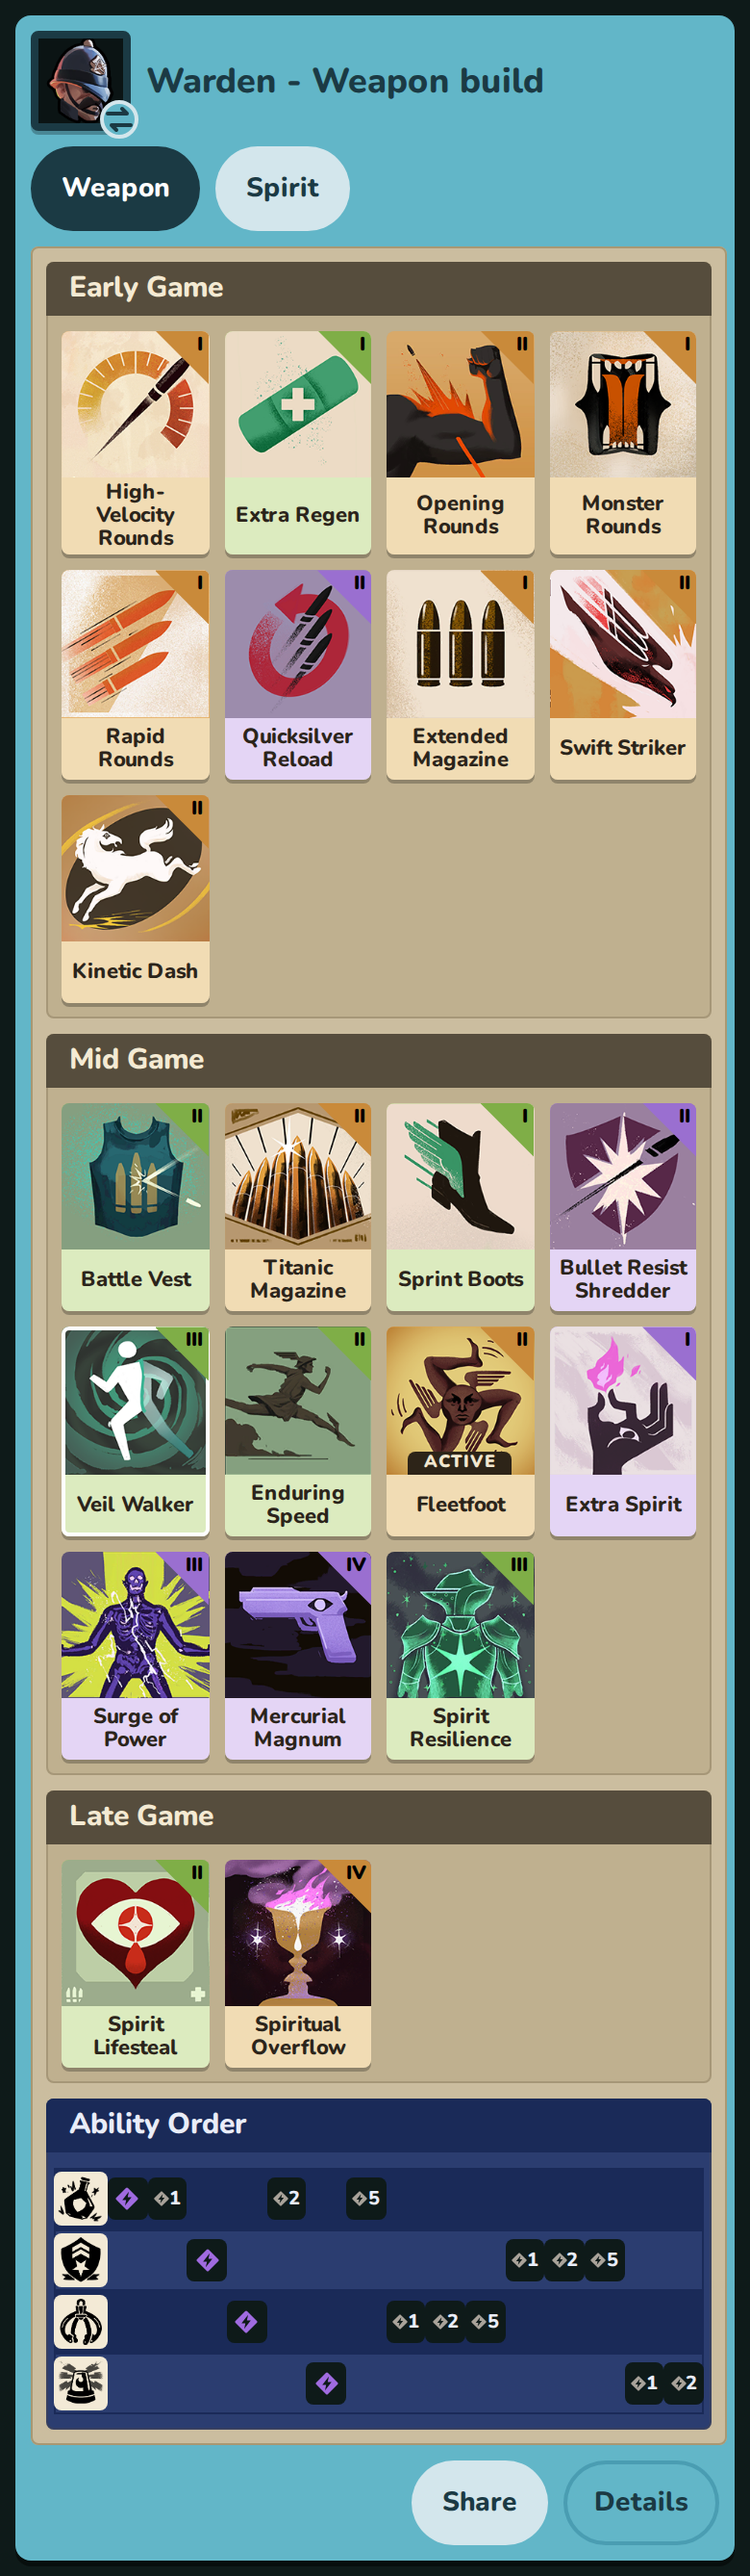
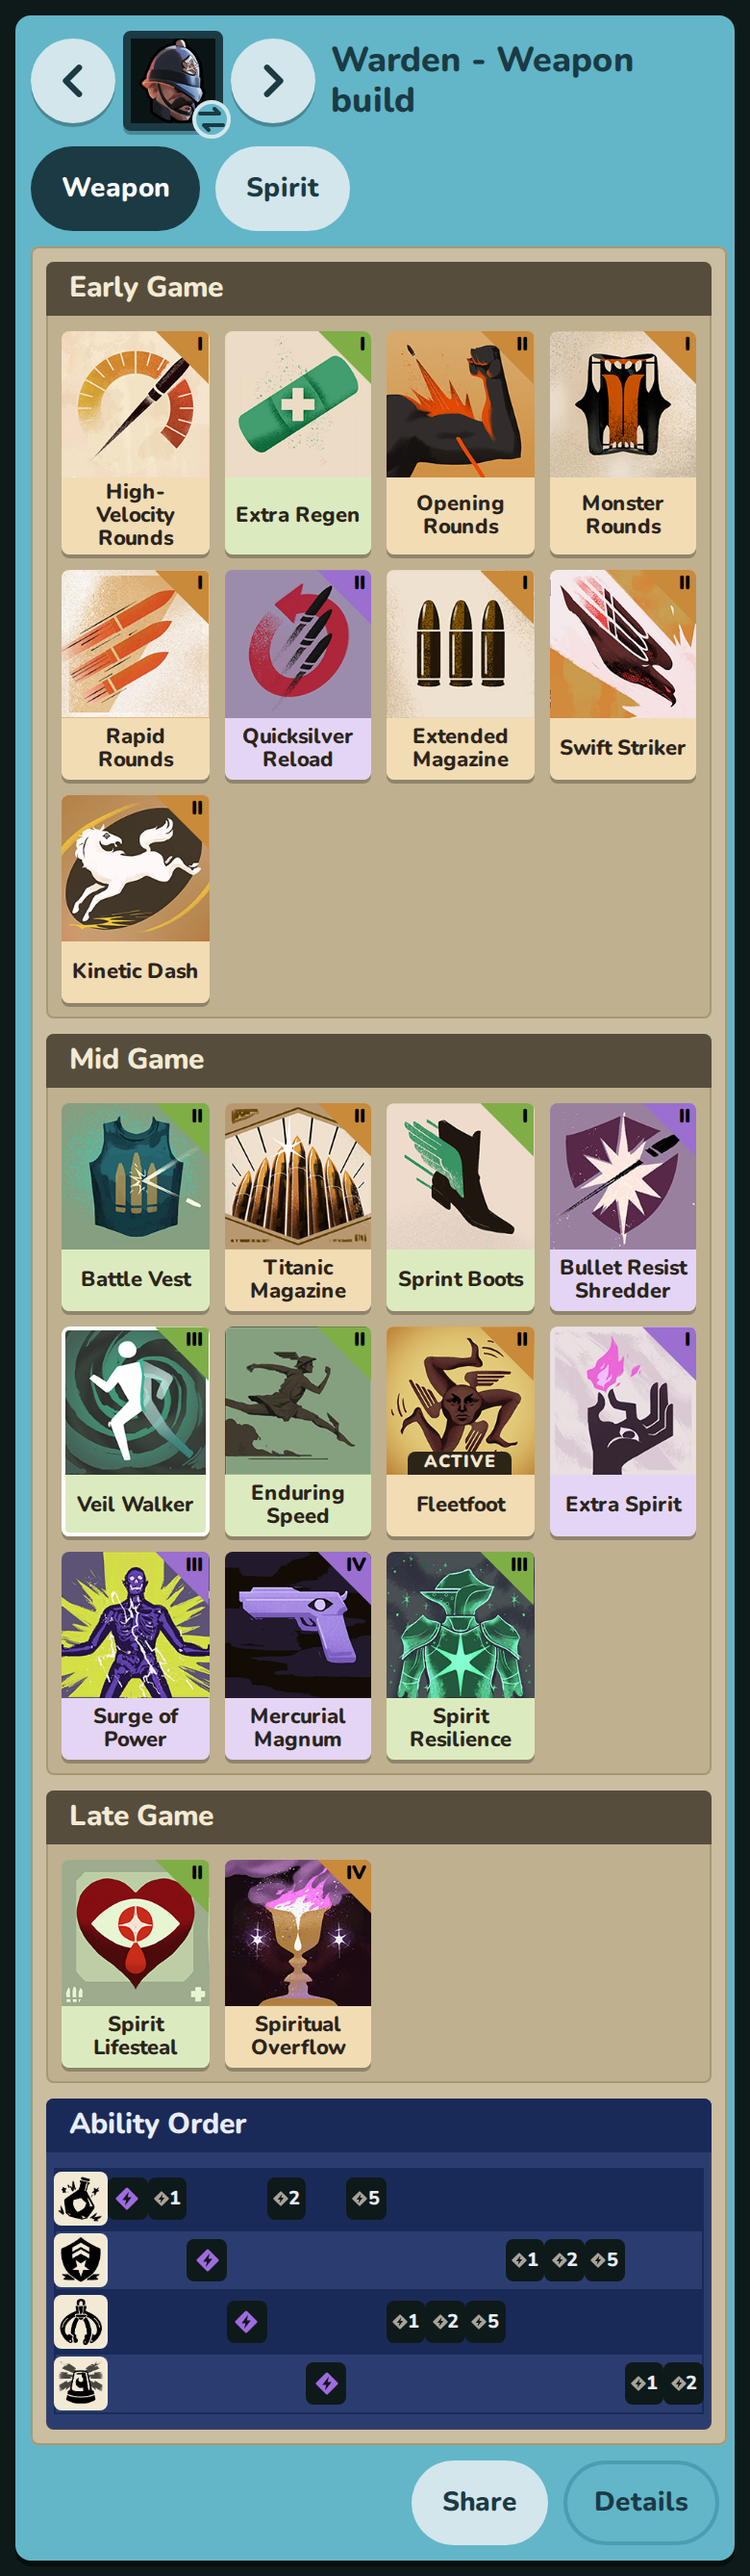
Hero card hugs portrait; prev/next hero arrows; parallelise per-hero browser checks (~99s to ~64s); poll focus restore
Claude-Session: https://claude.ai/code/session_01Pw5t86tpJKbw1BESHRLQ93

Changed region(s): [[0.0308, 0.0, 0.8308, 0.062]]

diff --git a/src/index.css b/src/index.css
@@ -436,6 +436,32 @@ h3 {
   display: none;
 }
 
+/* prev / next hero arrows */
+.hero-mini {
+  display: flex;
+  align-items: center;
+  gap: 4px;
+  flex: 0 0 auto;
+}
+.hero-arrow {
+  display: inline-flex;
+  align-items: center;
+  justify-content: center;
+  width: 44px;
+  height: 44px;
+  border-radius: var(--radius-full);
+  background: var(--pill);
+  color: var(--teal-ink);
+  box-shadow: var(--shadow-hard);
+}
+.hero-arrow svg {
+  width: 20px;
+  height: 20px;
+}
+.hero-side .hero-arrow {
+  display: none;
+}
+
 /* item tile: slot-coloured art, tier flag in the corner, pale name plate */
 .tile {
   position: relative;
@@ -785,9 +811,10 @@ button.tile:hover {
 
 @media (min-width: 900px) {
   .screen {
-    --tile: clamp(72px, min(5.5vw, 9.2vh), 112px);
+    --tile: clamp(64px, min(4.9vw, 9.2vh), 112px);
     display: grid;
-    grid-template-columns: clamp(220px, 20vw, 400px) minmax(0, 1fr);
+    --side-w: clamp(220px, min(27vw, calc((100dvh - 24px - 200px) * 0.737)), 600px);
+    grid-template-columns: var(--side-w) minmax(0, 1fr);
     gap: 16px;
     align-items: start;
     max-width: 2000px;
@@ -800,6 +827,7 @@ button.tile:hover {
     top: 12px;
   }
   .hero-card {
+    position: relative;
     display: flex;
     flex-direction: column;
     height: calc(100dvh - 24px);
@@ -810,31 +838,53 @@ button.tile:hover {
     overflow: hidden;
     box-shadow: var(--shadow-hard-lg);
   }
-  .hero-card img {
+  .hero-face {
+    display: flex;
+    flex-direction: column;
+    flex: 1 1 auto;
+    min-height: 0;
+    width: 100%;
+    text-align: center;
+  }
+  .hero-face img {
     display: block;
     width: 100%;
-    flex: 1 1 0;
-    min-height: 0;
-    object-fit: contain;
-    object-position: 50% 50%;
+    aspect-ratio: 280 / 380;
+    object-fit: cover;
     background: var(--avatar-bg);
     border-radius: var(--radius-sm);
   }
-  .hero-card .hero-name {
+  .hero-face .hero-name {
     display: block;
-    font-size: 24px;
+    font-size: 32px;
     font-weight: 900;
-    padding: 8px 0 4px;
+    padding: 16px 0;
+    margin: auto 0;
     color: var(--teal-ink);
   }
-  .hero-card .hero-cue {
+  .hero-face .hero-cue {
     display: flex;
     justify-content: center;
-    min-height: 40px;
+    min-height: 44px;
     margin: 4px 12px 12px;
     font-size: 16px;
     background: var(--pill);
     box-shadow: var(--shadow-hard);
+    align-items: center;
+  }
+  .hero-side .hero-arrow {
+    display: inline-flex;
+    position: absolute;
+    top: calc(var(--side-w) * 0.688 - 22px);
+  }
+  .hero-arrow.prev {
+    left: 12px;
+  }
+  .hero-arrow.next {
+    right: 12px;
+  }
+  .hero-mini {
+    display: none;
   }
   .row.abilities {
     flex: 1;

diff --git a/src/App.tsx b/src/App.tsx
@@ -11,7 +11,7 @@ import {
   type HeldoutSet,
   type PanelValidation,
 } from './validation/heldout';
-import { BuildView, SwapCue } from './components/BuildView';
+import { BuildView, HeroArrow, SwapCue } from './components/BuildView';
 import { HeroPicker } from './components/HeroPicker';
 import { slugify } from './slug';
 import { BoardSkeleton } from './components/BoardSkeleton';
@@ -176,6 +176,11 @@ export default function App() {
     log.info('hero_selected', { heroId: h.id });
     pickHero(slugify(h.name));
   };
+  const stepHero = (d: -1 | 1) => {
+    const i = heroes.findIndex((h) => h.id === heroId);
+    const next = heroes[(i + d + heroes.length) % heroes.length];
+    if (next) selectHero(next);
+  };
   const selectStyle = (b: Build) => pickStyle(b.population.style?.key ?? '');
 
   // en-GB's "short" month gives "Sept" (4 letters) for September; build the day/month/year
@@ -215,11 +220,15 @@ export default function App() {
     <>
       <main className="screen">
         <aside className="hero-side">
-          <button className="hero-card hero-btn" onClick={() => setHeroesOpen(true)} aria-label={`${hero.name}, change hero`}>
-            <img src={img(hero.images.card ?? hero.images.small)} alt="" width={260} height={380} />
-            <span className="hero-name">{hero.name}</span>
-            <SwapCue />
-          </button>
+          <div className="hero-card">
+            <button className="hero-face hero-btn" onClick={() => setHeroesOpen(true)} aria-label={`${hero.name}, change hero`}>
+              <img src={img(hero.images.card ?? hero.images.small)} alt="" width={280} height={380} />
+              <span className="hero-name">{hero.name}</span>
+              <SwapCue />
+            </button>
+            <HeroArrow dir={-1} onStep={stepHero} />
+            <HeroArrow dir={1} onStep={stepHero} />
+          </div>
         </aside>
         <div className="frame">
           {analyticsState.status === 'error' && (
@@ -248,6 +257,7 @@ export default function App() {
               builds={build ? builds : [shownBuild]}
               onPickStyle={selectStyle}
               onOpenHeroes={() => setHeroesOpen(true)}
+              onStepHero={stepHero}
               panel={build ? (validations[tab] ?? null) : (lastGood?.panel ?? null)}
               hero={shownHero}
               windowDays={manifest?.window_days}

diff --git a/src/components/BuildView.tsx b/src/components/BuildView.tsx
@@ -33,11 +33,27 @@ export const SwapCue = () => (
   </span>
 );
 
+export const HeroArrow = ({ dir, onStep }: { dir: -1 | 1; onStep: (d: -1 | 1) => void }) => (
+  <button className={['hero-arrow', dir < 0 ? 'prev' : 'next'].join(' ')} onClick={() => onStep(dir)} aria-label={dir < 0 ? 'Previous hero' : 'Next hero'}>
+    <svg viewBox="0 0 16 16" aria-hidden="true">
+      <path
+        d={dir < 0 ? 'M10.5 2.5 5 8l5.5 5.5' : 'M5.5 2.5 11 8l-5.5 5.5'}
+        fill="none"
+        stroke="currentColor"
+        strokeWidth="2.5"
+        strokeLinecap="round"
+        strokeLinejoin="round"
+      />
+    </svg>
+  </button>
+);
+
 export function BuildView({
   build,
   builds,
   onPickStyle,
   onOpenHeroes,
+  onStepHero,
   panel,
   hero,
   windowDays,
@@ -48,6 +64,7 @@ export function BuildView({
   builds: Build[];
   onPickStyle: (b: Build) => void;
   onOpenHeroes: () => void;
+  onStepHero: (d: -1 | 1) => void;
   panel: PanelValidation | null;
   hero: Pick<Hero, 'name' | 'images'>;
   windowDays?: number;
@@ -102,10 +119,14 @@ export function BuildView({
   return (
     <>
       <div className="frame-head">
-        <button className="hero-avatar hero-btn" onClick={onOpenHeroes} aria-label={`${hero.name}, change hero`}>
-          <img src={img(hero.images.small)} alt="" width={44} height={44} />
-          <SwapCue />
-        </button>
+        <div className="hero-mini">
+          <HeroArrow dir={-1} onStep={onStepHero} />
+          <button className="hero-avatar hero-btn" onClick={onOpenHeroes} aria-label={`${hero.name}, change hero`}>
+            <img src={img(hero.images.small)} alt="" width={44} height={44} />
+            <SwapCue />
+          </button>
+          <HeroArrow dir={1} onStep={onStepHero} />
+        </div>
         <h1>{title}</h1>
         {builds.length > 1 && (
           <div className="pills style-switch" role="group" aria-label="Build">

diff --git a/docs/ui/DESIGN.md b/docs/ui/DESIGN.md
@@ -27,7 +27,7 @@ nothing else.
   row and marker has an aria-label. Phone: same grid, columns shrink to fit, no sideways scroll.
   The share PNG draws the same grid.
 - Hero cue: the hero control is always marked. Desktop: a teal "Change Hero" pill with a swap icon
-  under the portrait name. Phone: a round swap-arrows badge on the avatar corner. Both are visible
+  at the bottom of the portrait, with Previous/Next hero arrows on its sides. Phone: a round swap-arrows badge on the avatar corner. Both are visible
   at rest, no hover needed; still one button named "<Hero>, change hero".
 - Item sheet: art, slot, tier, cost, stats, passive/active text. No ranking text.
 - Details (the single quiet control, closed by default): tagline, match count, rank floor, data
@@ -62,6 +62,13 @@ unlock, grey for upgrades), on screen and in the share PNG. On desktop the hero 
 of the window, matching the frame, with the portrait filling it and a pill-style "Change Hero" button at
 the bottom; the Ability Order rows stretch to use the height left on the board, so neither side has a void.
 Phone unchanged apart from the glyphs.
+
+Round 8 eval, user's words: "No. The outer border of the hero portrait seems to be surrounding air. It also
+feels like there's dead space again. Also, add a left/right arrow to traverse between characters".
+Round 9 answer: the desktop hero column is sized from the portrait (280x380) and the window height, so the
+teal frame hugs the uncropped image with no bands; the board and tiles shrink a little to make room. Previous /
+Next hero arrows (44px, named "Previous hero" / "Next hero", wrapping around the hero list) sit on the
+portrait sides on desktop and on either side of the avatar on phone. `verify:browser` clicks them at both sizes.
 
 ## Sources read
 
